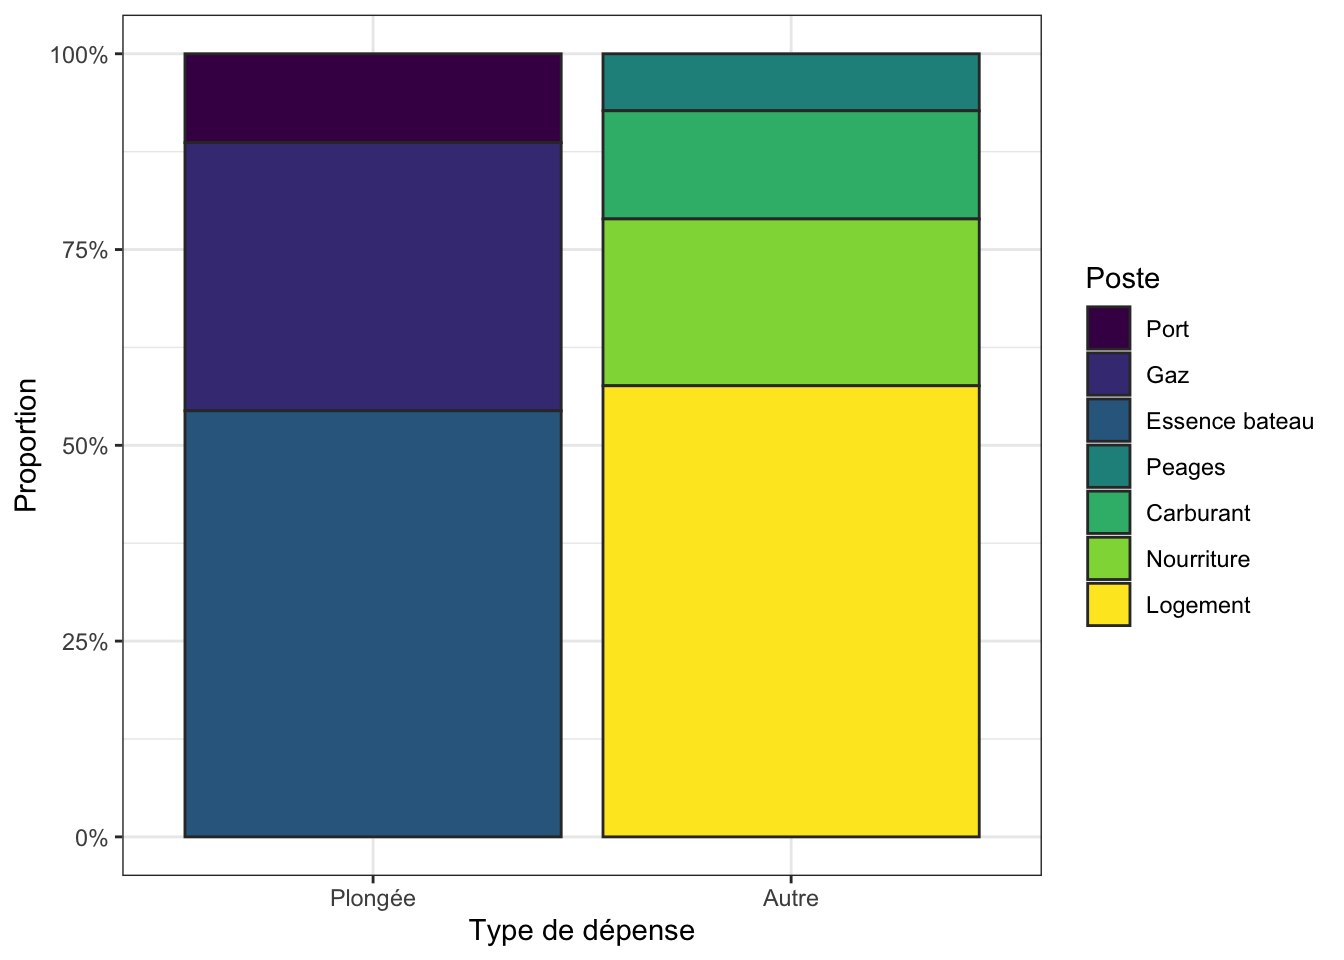
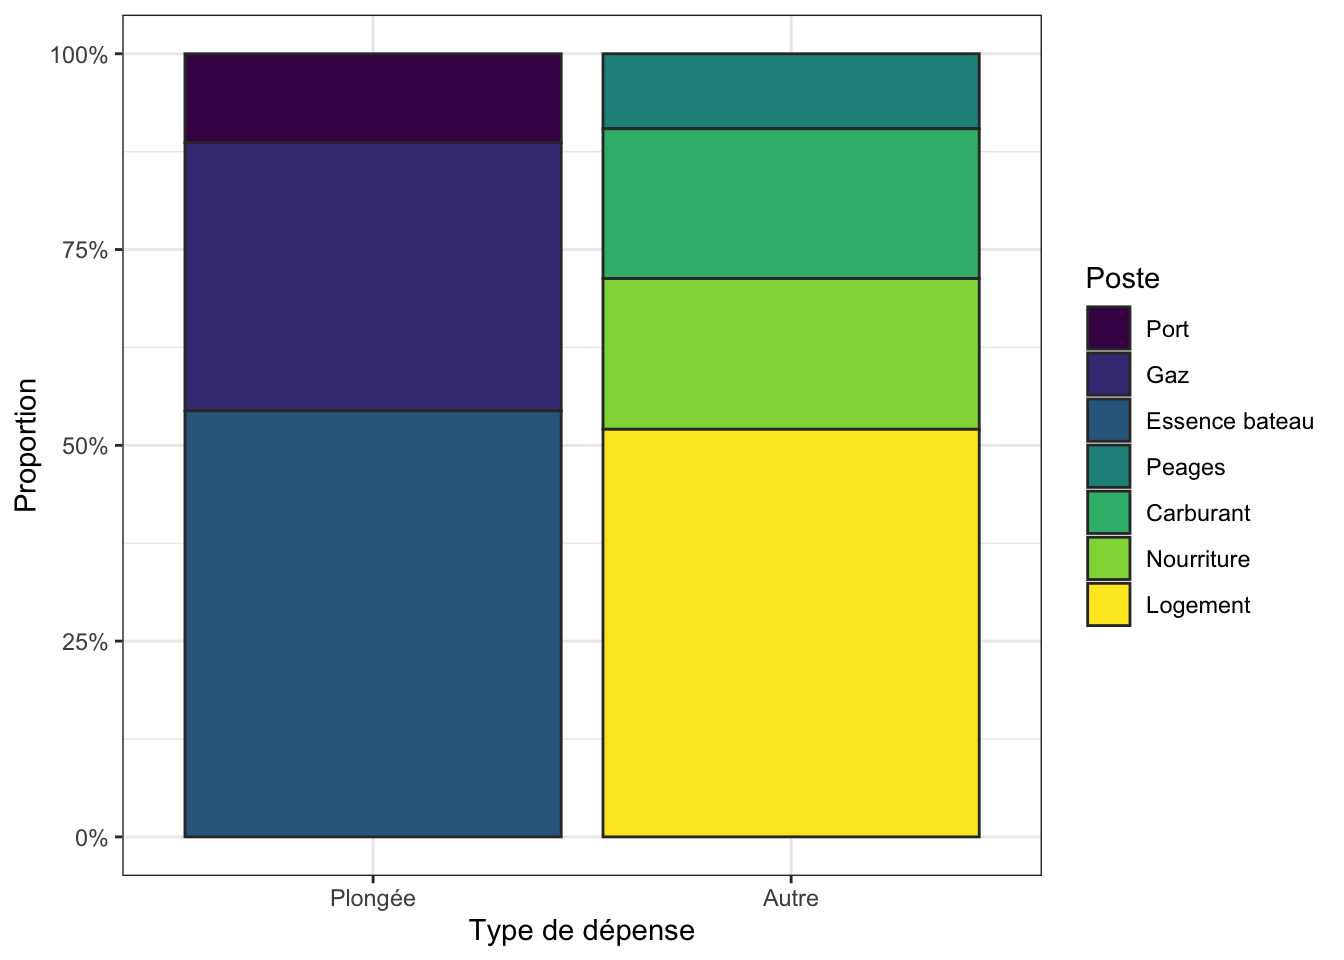
Maj sortie Cavalaire 2025 (gaz et pour mémoire)

Changed region(s): [[0.4375, 0.375, 0.75, 0.4688], [0.4375, 0.2188, 0.75, 0.3125], [0.4375, 0.0938, 0.75, 0.1562]]

diff --git a/docs/Cavalaire2025.html b/docs/Cavalaire2025.html
@@ -78,7 +78,7 @@ ul.task-list li input[type="checkbox"] {
 
 <link rel="stylesheet" href="styles.css">
 <meta property="og:title" content="Cavalaire – Amitié Pictave">
-<meta property="og:description" content="| Du 19 au 26 avril 2025 | | Citation rigolote — Auteur, date.">
+<meta property="og:description" content="| Du 19 au 26 avril 2025 | | À Cavalaire, on se fend la gueule ! — Baptiste, mercredi 23 avril.">
 <meta property="og:image" content="Cavalaire2025_files/figure-html/fig-plong-1.png">
 <meta property="og:site_name" content="Amitié Pictave">
 </head>
@@ -316,7 +316,7 @@ ul.task-list li input[type="checkbox"] {
 <h1 class="title">Cavalaire</h1>
 <p class="subtitle lead"></p><div class="line-block">Du 19 au 26 avril 2025<br>
 <br>
-<em>Citation rigolote</em> — Auteur, date.</div><p></p>
+<em>À Cavalaire, on se fend la gueule !</em> — Baptiste, mercredi 23 avril.</div><p></p>
 </div>
 
 
@@ -327,7 +327,7 @@ ul.task-list li input[type="checkbox"] {
     <div>
     <div class="quarto-title-meta-heading">Dernière Mise à jour</div>
     <div class="quarto-title-meta-contents">
-      <p class="date">vendredi 25 avril 2025</p>
+      <p class="date">lundi 28 avril 2025</p>
     </div>
   </div>
   
@@ -668,41 +668,41 @@ Table&nbsp;4: Dépenses hors plongées engagées par les participants à la sort
 <td style="text-align: right;">Baptiste</td>
 <td style="text-align: right;">133.33€</td>
 <td style="text-align: right;">0.00€</td>
-<td style="text-align: right;">156.74€</td>
-<td style="text-align: right;">0.00€</td>
+<td style="text-align: right;">249.78€</td>
+<td style="text-align: right;">76.80€</td>
 <td style="text-align: right;">0€</td>
 <td style="text-align: right;">0€</td>
-<td style="text-align: right;">290.07€</td>
+<td style="text-align: right;">459.91€</td>
 </tr>
 <tr class="even">
 <td style="text-align: right;">Benoît</td>
 <td style="text-align: right;">1,001.07€</td>
 <td style="text-align: right;">149.50€</td>
-<td style="text-align: right;">0.00€</td>
-<td style="text-align: right;">31.50€</td>
+<td style="text-align: right;">72.52€</td>
+<td style="text-align: right;">81.40€</td>
 <td style="text-align: right;">0€</td>
 <td style="text-align: right;">0€</td>
-<td style="text-align: right;">1,182.07€</td>
+<td style="text-align: right;">1,304.49€</td>
 </tr>
 <tr class="odd">
 <td style="text-align: right;">Jean-Claude</td>
 <td style="text-align: right;">133.33€</td>
 <td style="text-align: right;">0.00€</td>
-<td style="text-align: right;">146.04€</td>
+<td style="text-align: right;">215.28€</td>
 <td style="text-align: right;">0.00€</td>
 <td style="text-align: right;">0€</td>
 <td style="text-align: right;">0€</td>
-<td style="text-align: right;">279.37€</td>
+<td style="text-align: right;">348.61€</td>
 </tr>
 <tr class="even">
 <td style="text-align: right;">Jérôme</td>
 <td style="text-align: right;">266.66€</td>
 <td style="text-align: right;">248.96€</td>
-<td style="text-align: right;">123.45€</td>
+<td style="text-align: right;">169.89€</td>
 <td style="text-align: right;">106.90€</td>
 <td style="text-align: right;">0€</td>
 <td style="text-align: right;">0€</td>
-<td style="text-align: right;">745.97€</td>
+<td style="text-align: right;">792.41€</td>
 </tr>
 <tr class="odd">
 <td style="text-align: right;">Nathalie</td>
@@ -738,11 +738,11 @@ Table&nbsp;4: Dépenses hors plongées engagées par les participants à la sort
 <td style="text-align: right; font-weight: bold;">Total</td>
 <td style="text-align: right; font-weight: bold;">2,201.04€</td>
 <td style="text-align: right; font-weight: bold;">813.98€</td>
-<td style="text-align: right; font-weight: bold;">527.79€</td>
-<td style="text-align: right; font-weight: bold;">278.10€</td>
+<td style="text-align: right; font-weight: bold;">809.03€</td>
+<td style="text-align: right; font-weight: bold;">404.80€</td>
 <td style="text-align: right; font-weight: bold;">0€</td>
 <td style="text-align: right; font-weight: bold;">0€</td>
-<td style="text-align: right; font-weight: bold;">3,820.91€</td>
+<td style="text-align: right; font-weight: bold;">4,228.85€</td>
 </tr>
 </tbody>
 </table>
@@ -827,8 +827,8 @@ Table&nbsp;6: Coûts unitaires par personne
 <tr class="odd">
 <td style="text-align: right;">34.94€</td>
 <td style="text-align: right;">4.31€</td>
-<td style="text-align: right;">58.64€</td>
-<td style="text-align: right;">30.90€</td>
+<td style="text-align: right;">89.89€</td>
+<td style="text-align: right;">44.98€</td>
 </tr>
 </tbody>
 </table>
@@ -897,33 +897,33 @@ Table&nbsp;7: Bilan des coûts par plongeur et par poste
 </tr>
 <tr class="even">
 <td style="text-align: right;">Carburant</td>
-<td style="text-align: right;">58.64€</td>
-<td style="text-align: right;">58.64€</td>
-<td style="text-align: right;">58.64€</td>
-<td style="text-align: right;">117.29€</td>
-<td style="text-align: right;">58.64€</td>
-<td style="text-align: right;">117.29€</td>
-<td style="text-align: right;">58.64€</td>
+<td style="text-align: right;">89.89€</td>
+<td style="text-align: right;">89.89€</td>
+<td style="text-align: right;">89.89€</td>
+<td style="text-align: right;">179.78€</td>
+<td style="text-align: right;">89.89€</td>
+<td style="text-align: right;">179.78€</td>
+<td style="text-align: right;">89.89€</td>
 </tr>
 <tr class="odd">
 <td style="text-align: right; border-bottom: 1px solid;">Peage</td>
-<td style="text-align: right; border-bottom: 1px solid;">30.90€</td>
-<td style="text-align: right; border-bottom: 1px solid;">30.90€</td>
-<td style="text-align: right; border-bottom: 1px solid;">30.90€</td>
-<td style="text-align: right; border-bottom: 1px solid;">61.80€</td>
-<td style="text-align: right; border-bottom: 1px solid;">30.90€</td>
-<td style="text-align: right; border-bottom: 1px solid;">61.80€</td>
-<td style="text-align: right; border-bottom: 1px solid;">30.90€</td>
+<td style="text-align: right; border-bottom: 1px solid;">44.98€</td>
+<td style="text-align: right; border-bottom: 1px solid;">44.98€</td>
+<td style="text-align: right; border-bottom: 1px solid;">44.98€</td>
+<td style="text-align: right; border-bottom: 1px solid;">89.96€</td>
+<td style="text-align: right; border-bottom: 1px solid;">44.98€</td>
+<td style="text-align: right; border-bottom: 1px solid;">89.96€</td>
+<td style="text-align: right; border-bottom: 1px solid;">44.98€</td>
 </tr>
 <tr class="even">
 <td style="text-align: right; font-weight: bold;">Total</td>
-<td style="text-align: right; font-weight: bold;">547.26€</td>
-<td style="text-align: right; font-weight: bold;">547.26€</td>
-<td style="text-align: right; font-weight: bold;">547.26€</td>
-<td style="text-align: right; font-weight: bold;">971.80€</td>
-<td style="text-align: right; font-weight: bold;">547.26€</td>
-<td style="text-align: right; font-weight: bold;">866.62€</td>
-<td style="text-align: right; font-weight: bold;">547.26€</td>
+<td style="text-align: right; font-weight: bold;">592.58€</td>
+<td style="text-align: right; font-weight: bold;">592.58€</td>
+<td style="text-align: right; font-weight: bold;">592.58€</td>
+<td style="text-align: right; font-weight: bold;">1,062.45€</td>
+<td style="text-align: right; font-weight: bold;">592.58€</td>
+<td style="text-align: right; font-weight: bold;">957.27€</td>
+<td style="text-align: right; font-weight: bold;">592.58€</td>
 </tr>
 </tbody>
 </table>
@@ -947,39 +947,39 @@ Table&nbsp;7: Bilan des coûts par plongeur et par poste
 </thead>
 <tbody>
 <tr class="odd">
-<td style="text-align: right;">Baptiste</td>
-<td style="text-align: right;">rembourse à l'AP</td>
-<td style="text-align: right;">87.19€</td>
-</tr>
-<tr class="even">
 <td style="text-align: right;">Jean-Claude</td>
 <td style="text-align: right;">rembourse à l'AP</td>
-<td style="text-align: right;">267.89€</td>
+<td style="text-align: right;">243.97€</td>
+</tr>
+<tr class="even">
+<td style="text-align: right;">Jérôme</td>
+<td style="text-align: right;">rembourse à l'AP</td>
+<td style="text-align: right;">29.14€</td>
 </tr>
 <tr class="odd">
 <td style="text-align: right;">Nathalie</td>
 <td style="text-align: right;">rembourse à l'AP</td>
-<td style="text-align: right;">135.33€</td>
+<td style="text-align: right;">180.65€</td>
 </tr>
 <tr class="even">
 <td style="text-align: right;">Pierre</td>
 <td style="text-align: right;">rembourse à l'AP</td>
-<td style="text-align: right;">7.78€</td>
+<td style="text-align: right;">98.43€</td>
 </tr>
 <tr class="odd">
 <td style="text-align: right;">Thomas</td>
 <td style="text-align: right;">rembourse à l'AP</td>
-<td style="text-align: right;">280.60€</td>
+<td style="text-align: right;">325.92€</td>
 </tr>
 <tr class="even">
-<td style="text-align: right;">Benoît</td>
+<td style="text-align: right;">Baptiste</td>
 <td style="text-align: right;">se fait rembourser par l'AP</td>
-<td style="text-align: right;">634.81€</td>
+<td style="text-align: right;">37.33€</td>
 </tr>
 <tr class="odd">
-<td style="text-align: right;">Jérôme</td>
+<td style="text-align: right;">Benoît</td>
 <td style="text-align: right;">se fait rembourser par l'AP</td>
-<td style="text-align: right;">15.07€</td>
+<td style="text-align: right;">711.91€</td>
 </tr>
 </tbody>
 </table>
@@ -991,24 +991,27 @@ Table&nbsp;7: Bilan des coûts par plongeur et par poste
 <section id="bénéfices-essence-et-heures" class="level2">
 <h2 class="anchored" data-anchor-id="bénéfices-essence-et-heures">Bénéfices, essence et heures</h2>
 <p>La majoration de 3€ de chaque plongée ainsi que les plongées des invités (si la plongée des membres coûte moins de 26€) permettent de faire des (petits) bénéfices. Ils s’élèvent ici à <strong>128.89€</strong>.</p>
-<p>Le moteur a tourné 19.5 heures et 400 litres de sans plomb ont été mis dans le réservoir, en comptant environ 18 litres qui restaient de Camaret et 18 litres qui restaient de Cavalaire à Pâques. D’après la console, 330 litres ont été consommés soit une consommation moyenne de 16.92 litres à l’heure. Il devrait donc rester environ 70 litres dans le réservoir : Thomas en a sorti 20 litres. L’erreur d’estimation de consomation est donc très faible : 12 litres cumulés sur les 3 sorties de l’année 2024, soit moins de 2%.</p>
-<p>Pour finir, nous avons parcouru 150 milles nautiques. Ça veut dire que nous consommons en moyenne 2.2 litres par mille, soit 1.19 litres au kilomètre, soit la bagatelle de 119 litres au 100 kilomètres. La plongée est un sport écologique !</p>
-<p>Nous avons commencé à nettoyer les boudins. Il reste la plus grosse part du boulot : le savon spécial est dans la console et le balais brosse dans le Ducato : avis aux amateurs !</p>
-<!-- Thomas en a sorti environ 20 litres, soit 50 litres de moins que prévu. Cela représente une erreur d'estimation de consommation de 12.5%.  -->
+<p>Il reste environ 50 bars dans la B50 d’O<sub>2</sub>, et beaucoup de relais sont déjà prêts pour la déco des circuits ouverts pour la sortie de cet été. Tous les 3 litres (diluant et oxy) sont gonflés, sauf le bloc oxy de Pierre, et les 2 diluants trimix de Thomas et Benoit. Il reste aussi un bail-out de trimix à compléter suite à une fuite au col du bloc, réparée chez Thomas 15 jours avant la sortie.</p>
+<p>Le moteur a tourné 19.5 heures et 180 litres de sans plomb ont été mis dans le réservoir, en comptant environ 18 litres qui restaient de Camaret et 18 litres qui restaient de Cavalaire à Pâques. D’après la console, 120 litres ont été consommés soit une consommation moyenne de 6.15 litres à l’heure. Il devrait donc rester environ 60 litres dans le réservoir.</p>
+<!-- : Thomas en a sorti 20 litres. L'erreur d'estimation de consomation est donc très faible : 12 litres cumulés sur les 3 sorties de l'année 2024, soit moins de 2%. -->
+<p>Pour finir, nous avons parcouru 80 milles nautiques. Ça veut dire que nous consommons en moyenne 1.5 litres par mille, soit 0.81 litres au kilomètre, soit la bagatelle de 81 litres au 100 kilomètres. La plongée est un sport écologique !</p>
+<!-- Nous avons commencé à nettoyer les boudins. Il reste la plus grosse part du boulot : le savon spécial est dans la console et le balais brosse dans le Ducato : avis aux amateurs ! -->
+<!-- Thomas en a sorti environ 20 litres, soit 40 litres de moins que prévu. Cela représente une erreur d'estimation de consommation de 22.22%.  -->
 </section>
 <section id="pour-mémoire" class="level2">
 <h2 class="anchored" data-anchor-id="pour-mémoire">Pour mémoire</h2>
 <p>Nous étions logés au <a href="https://maps.app.goo.gl/ARBdEF7RomfWtA4y6">150, allée Trémière.</a> <a href="https://www.abritel.fr/location-vacances/p1559446?chkin=2025-04-19&amp;chkout=2025-04-26&amp;d1=2025-04-19&amp;d2=2025-04-26&amp;startDate=2025-04-19&amp;endDate=2025-04-26&amp;x_pwa=1&amp;rfrr=HSR&amp;pwa_ts=1731235639382&amp;referrerUrl=aHR0cHM6Ly93d3cuYWJyaXRlbC5mci9Ib3RlbC1TZWFyY2g%3D&amp;useRewards=false&amp;adults=10&amp;regionId=5820&amp;destination=La%20Croix-Valmer%2C%20Var%2C%20France&amp;destType=BOUNDING_BOX&amp;latLong=43.20652%2C6.568811&amp;total_price=0%2C2763&amp;privacyTrackingState=CAN_TRACK&amp;searchId=f731331e-77e3-472e-af7d-8e094b23e8cf&amp;sort=RECOMMENDED&amp;top_dp=2201&amp;top_cur=EUR&amp;userIntent=&amp;selectedRoomType=33393363&amp;selectedRatePlan=0003c5787f7ffc0e421680a75be28e560c9f&amp;expediaPropertyId=33393363">Description de la location sur Abritel.</a>.</p>
 <iframe src="https://www.google.com/maps/embed?pb=!1m18!1m12!1m3!1d2909.567215352485!2d6.510897013174119!3d43.17660788300228!2m3!1f0!2f0!3f0!3m2!1i1024!2i768!4f13.1!3m3!1m2!1s0x12cece676e4b788d%3A0xe4d8df7233a5d611!2sAll.%20Tr%C3%A9mi%C3%A8re%2C%2083240%20Cavalaire-sur-Mer!5e0!3m2!1sfr!2sfr!4v1731572573722!5m2!1sfr!2sfr" width="600" height="450" style="border:0;" allowfullscreen="" loading="lazy" referrerpolicy="no-referrer-when-downgrade">
 </iframe>
-<p>Super maison, proche du port (2,5km), piscine chauffée, 3 chambres doubles à l’étage principal, une chambre double et une chambre 4 places en bas. 2 salles de bain et 2 WC. De la place pour les véhicules (mais pas trop pour les remorques, sauf en contrebas éventuellement). De la place pour bricoler les recycleurs et pour booster le long de la terrasse, de la place pour stocker du matos, etc.</p>
+<p>Super maison, proche du port (2,5km), 3 chambres doubles à l’étage principal, une chambre double et une chambre 4 places en bas, au niveau de la piscine chauffée très agréable. 2 salles de bain et 2 WC. De la place pour les véhicules (mais pas trop pour les remorques, sauf en contrebas éventuellement). De la place pour bricoler les recycleurs et pour booster le long de la terrasse, de la place pour stocker du matos, et facile pour gonfler dans la chambre du bas avec le compresseur électrique. Pièce de vie et terrasse agréable l’étage. Très pratique à tous points de vue.</p>
 <p>Au titre des péripéties, par ordre décroissant de gravité :</p>
 <ol type="1">
 <li>Le manomètre du booster a explosé, blessant Pierre au visage et à l’œil. Personne n’avait pensé à vérifier si le manomètre était oxygène ou pas, et ni Thomas ni moi n’avons même envisagé qu’il pouvait ne pas être oxygène quand nous avons monté la lyre cet hiver. Heureusement, plus de peur que de mal. Dix points de suture pour Pierre, et un œil convalescent…</li>
 <li>L’avant dernier jour, en route pour le Togo (et avec une journée Donator/Grec prévue le lendemain), perte de puissance instantannée du moteur à 1 mile de la sortie du port. Le moteur ne faisait que de caler, on a tenté de ramer… Peine perdue ! Au final, remorquage par la SNSM (pour la modique somme de 350€, heureusement pris en charge par l’assurance suite au coup de téléphone de Thomas à son pote), puis sortie de l’eau plus tôt que prévu. Sébastien nous a appris que la panne était due au clapet de la poire qui s’est retourné, privant les deux pompes à essence (basse et haute pression) du précieux carburant. La poire coûte 20€. Les pompes à essence qui font maintenant un bruit anormal, nettement plus. Devis en préparation…</li>
-<li>Toilettes bouchées le dernier jour à la location ! Appel à Sonia et au plombier pour régler le problème.</li>
+<li>À l’aller, un chevreuil est passé sous les roues de la voiture de Thomas (et sous celles de la remorque !) après avoir rencontre son pare-choc. Pas trop de mal en dehors de la calandre, mais une bonne franchise à payer auprès de l’assurance !</li>
+<li>Toilettes bouchées le dernier jour à la location ! Appel à Sonia et au plombier pour régler le problème, finalement résolu assez facilement.</li>
 </ol>
-<p>Ah oui, et 3 d’entre nous ont acheté une combi Santi chez Gwen…</p>
+<p>Ah oui, et parce que la sortie n’était pas très chère, 3 d’entre nous ont acheté une combi Santi chez Gwen…</p>
 </section>
 <section id="quelques-graphiques" class="level2">
 <h2 class="anchored" data-anchor-id="quelques-graphiques">Quelques graphiques</h2>
